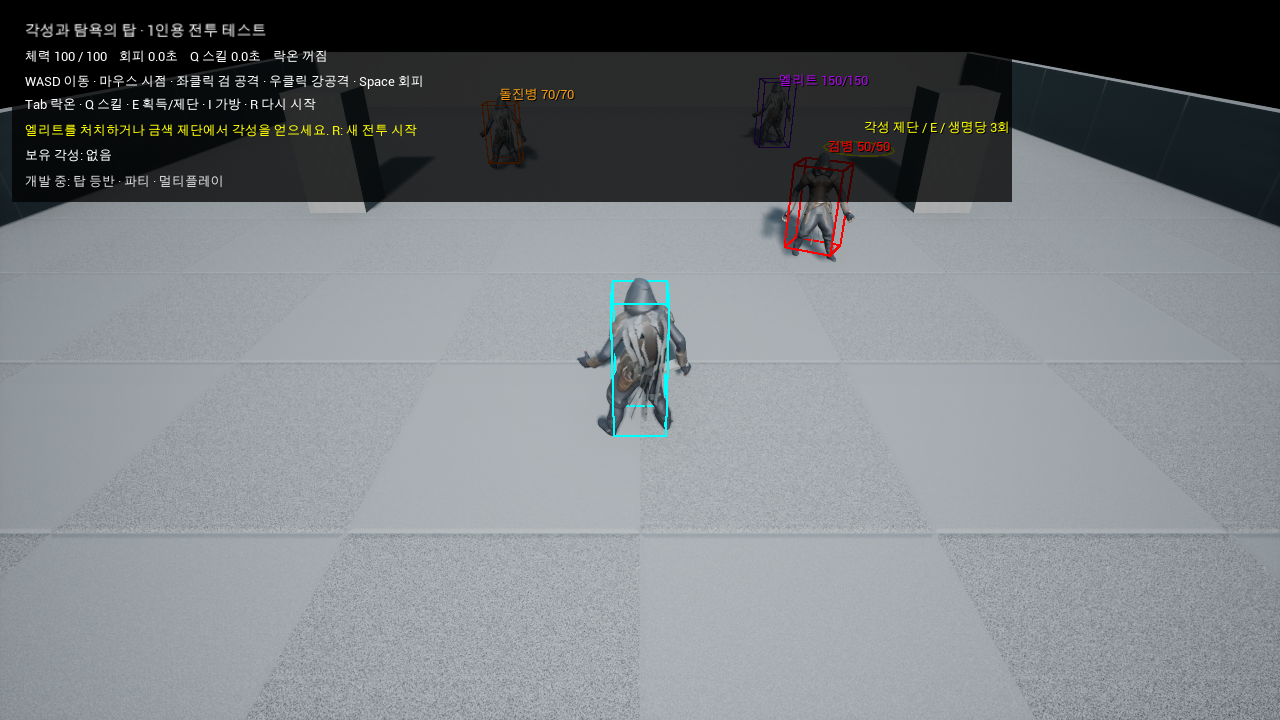
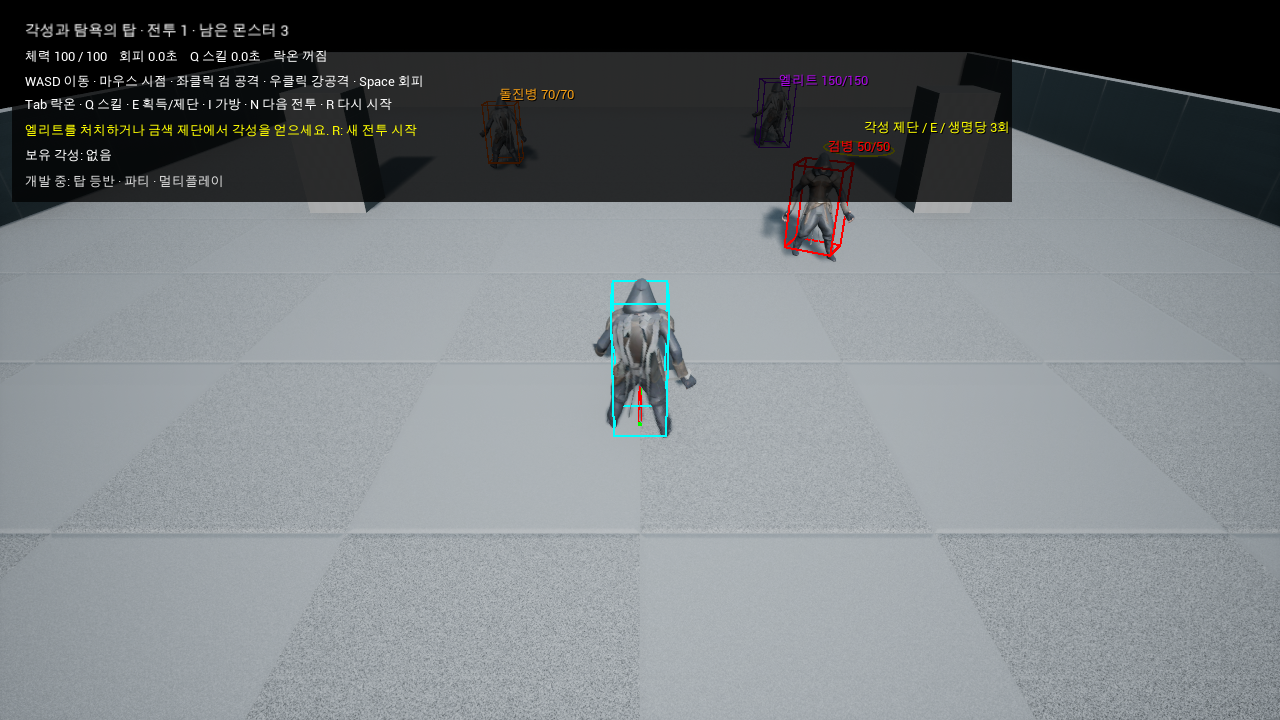
수정: 실제 몸 방향을 기준으로 카메라 정면 정렬
대기·이동 동작의 어깨와 머리·골반에서 몸 정면을 계산해 모델 오프셋을 보정합니다. 화면 시험의 외부 입력을 차단하고 모델 방향 일치(dot 1.000)를 검증했습니다.

Changed region(s): [[0.4375, 0.3972, 0.5625, 0.6111], [0.1875, 0.1222, 0.3125, 0.1528], [0.0938, 0.0306, 0.2188, 0.0611]]

diff --git a/Source/AscensionPrototype/CombatLab.cpp b/Source/AscensionPrototype/CombatLab.cpp
@@ -76,6 +76,14 @@ namespace Lab
         }
         UE_LOG(LogTemp,Warning,TEXT("ASCENSION_SWORD_BONE_NOT_FOUND"));
     }
+    void AlignBodyForward(USkeletalMeshComponent* Mesh)
+    {
+        if(Mesh->GetBoneIndex(TEXT("LeftShoulder"))==INDEX_NONE || Mesh->GetBoneIndex(TEXT("RightShoulder"))==INDEX_NONE || Mesh->GetBoneIndex(TEXT("Head"))==INDEX_NONE || Mesh->GetBoneIndex(TEXT("Hips"))==INDEX_NONE) return;
+        const FVector Right=Mesh->GetBoneLocation(TEXT("RightShoulder"),EBoneSpaces::ComponentSpace)-Mesh->GetBoneLocation(TEXT("LeftShoulder"),EBoneSpaces::ComponentSpace);
+        const FVector Up=Mesh->GetBoneLocation(TEXT("Head"),EBoneSpaces::ComponentSpace)-Mesh->GetBoneLocation(TEXT("Hips"),EBoneSpaces::ComponentSpace);
+        const FVector Forward=FVector::CrossProduct(Right,Up).GetSafeNormal2D();
+        if(!Forward.IsNearlyZero()) Mesh->SetRelativeRotation(FRotator(0,-Forward.Rotation().Yaw,0));
+    }
     double Now(const AActor* A) { return A->GetWorld()->GetTimeSeconds(); }
     bool Clear(const AActor* Source, const AActor* Target)
     {
@@ -156,6 +164,7 @@ void ACLHero::Tick(float Delta)
     const float Impact=FMath::Clamp(float((CameraImpactUntil-T)/.12),0.f,1.f)*CameraImpactStrength;
     Camera->SetRelativeLocation(FVector(0,FMath::Sin(T*135)*Impact,FMath::Sin(T*175)*Impact*.55f));
     Lab::Visual(this,Clips,T<DodgeEnd?4:T<AttackEnd?(bHeavy?3:2):GetVelocity().SizeSquared2D()>100?1:0,VisualState,T<DodgeEnd?float(DodgeEnd-DodgeStart):T<AttackEnd?(bHeavy?.85f:.44f):0);
+    if(bHasModel && T>=AttackEnd && T>=DodgeEnd) Lab::AlignBodyForward(GetMesh());
     if(bHasModel)
     {
         const FBoxSphereBounds Bounds=GetMesh()->GetSkeletalMeshAsset()->GetImportedBounds();
@@ -531,11 +540,37 @@ void AAscensionMode::Tick(float Delta)
         if(VerifyStage==0)
         {
             P->SetActorLocation(FVector(-750,0,100)); P->Controller->SetControlRotation(FRotator(-30,0,0));
+            P->DisableInput(Cast<APlayerController>(P->Controller)); P->SetActorRotation(FRotator::ZeroRotator);
             for(TActorIterator<ACLEnemy> It(GetWorld());It;++It) { It->bFrozenForView=true; It->GetCharacterMovement()->StopMovementImmediately(); }
             NextCheck=T+2; VerifyStage=1;
         }
         else if(VerifyStage==1)
         {
+            USkeletalMeshComponent* Mesh=P->GetMesh();
+            FName Left,Right,Head,Hips;
+            for(int32 I=0;I<Mesh->GetNumBones();++I)
+            {
+                FName Bone=Mesh->GetBoneName(I); FString Name=Bone.ToString().ToLower();
+                if(Name.Contains(TEXT("leftshoulder"))) Left=Bone;
+                if(Name.Contains(TEXT("rightshoulder"))) Right=Bone;
+                if(Name==TEXT("head")) Head=Bone;
+                if(Name==TEXT("hips")) Hips=Bone;
+            }
+            if(!Left.IsNone() && !Right.IsNone() && !Head.IsNone() && !Hips.IsNone())
+            {
+                const FVector Side=(Mesh->GetSocketLocation(Right)-Mesh->GetSocketLocation(Left)).GetSafeNormal();
+                const FVector Up=(Mesh->GetSocketLocation(Head)-Mesh->GetSocketLocation(Hips)).GetSafeNormal();
+                const FVector ModelForward=FVector::CrossProduct(Side,Up).GetSafeNormal2D();
+                const FVector CameraForward=FRotator(0,P->GetControlRotation().Yaw,0).Vector();
+                UE_LOG(LogTemp,Display,TEXT("ASCENSION_MODEL_FACING dot=%.3f model_yaw=%.1f camera_yaw=%.1f"),FVector::DotProduct(ModelForward,CameraForward),ModelForward.Rotation().Yaw,CameraForward.Rotation().Yaw);
+                Check(FVector::DotProduct(ModelForward,CameraForward)>.99f,TEXT("visible_model_faces_camera"));
+                DrawDebugDirectionalArrow(GetWorld(),P->GetActorLocation()+FVector(0,0,-80),P->GetActorLocation()+FVector(0,0,-80)+CameraForward*200,30,FColor::Green,false,2,0,4);
+                DrawDebugDirectionalArrow(GetWorld(),P->GetActorLocation()+FVector(0,0,-75),P->GetActorLocation()+FVector(0,0,-75)+ModelForward*200,30,FColor::Red,false,2,0,4);
+            }
+            else
+            {
+                for(int32 I=0;I<Mesh->GetNumBones();++I) UE_LOG(LogTemp,Display,TEXT("ASCENSION_BONE %s"),*Mesh->GetBoneName(I).ToString());
+            }
             FString Shot=FPaths::ProjectSavedDir()/TEXT("CombatLab.png");
             FScreenshotRequest::RequestScreenshot(Shot,true,false); NextCheck=T+3; VerifyStage=2;
         }

diff --git a/Docs/데모_개발진행.md b/Docs/데모_개발진행.md
@@ -1,5 +1,7 @@
 # 개발 진행
 
+최신 정면 보정: 고정된 상대 Yaw만으로는 생성된 대기 동작의 몸 방향 오프셋이 남았다. 양 어깨·머리·골반으로 실제 몸 정면을 계산해 대기·이동 시 캡슐의 정면에 맞추도록 바꿨다. 렌더링 시험은 입력을 차단해 외부 마우스 움직임의 영향을 제거한다. 모델 정면과 카메라 방향 일치 시험 통과(dot 1.000). 앞선 고정 각도 보정을 대체하는 최종 몸 방향 처리다.
+
 추가 렌더링 보정: 랜덤 전투 화면에서 앞선 대기 자세 90도 보정이 모델을 옆으로 돌리는 것을 재확인했다. 초기·대기·검 공격은 상대 Yaw 180, 달리기·구르기는 270으로 구분해 다시 정렬했다. RandomCombat.png와 CombatImpact.png는 최신 실제 화면이다. 명중 시 적을 둘러싸던 흰색 디버그 구를 제거해 피해 숫자와 불꽃의 가독성을 높였다.
 
 최신 전투 확장: 일반 플레이에 랜덤 몬스터 7마리(검병·돌진병·엘리트)를 배치한다. 시작 위치에서 최소 450cm, 몬스터 간 최소 180cm를 확보하고 벽·기둥 충돌 위치를 거부한다. 전멸 보상은 체력 +20이며 N으로 장비·각성을 유지한 다음 전투를 시작한다. 적 수는 최대 10마리, 체력 증가는 차수당 8%(최대 40%)다. 층 이동과 구분하는 전투장 반복 기능이다.

diff --git a/Verification/RESULTS.md b/Verification/RESULTS.md
@@ -1,5 +1,7 @@
 # 검증 기록
 
+몸 방향 추가 검증: 스크린샷 전용 실행은 실제 키보드·마우스 입력을 차단한다. 양쪽 어깨와 머리·골반으로 모델의 실제 정면을 계산했다. 수정 전 카메라 Yaw 0도에서 모델 정면 -30도(dot 0.866), 수정 후 -0.4도(dot 1.000)로 확인했다. visible_model_faces_camera PASS. 대기·이동에 동작 자체의 방향을 보정하며 공격·구르기 회전은 해당 동작을 유지한다. BuildBodyForward.log 빌드 성공.
+
 날짜: 2026-10-11 (한국 시간). Unreal Engine 5.8.3.
 
 - BuildRandomCombat.log: Editor 모듈 빌드 성공(6.25초).
